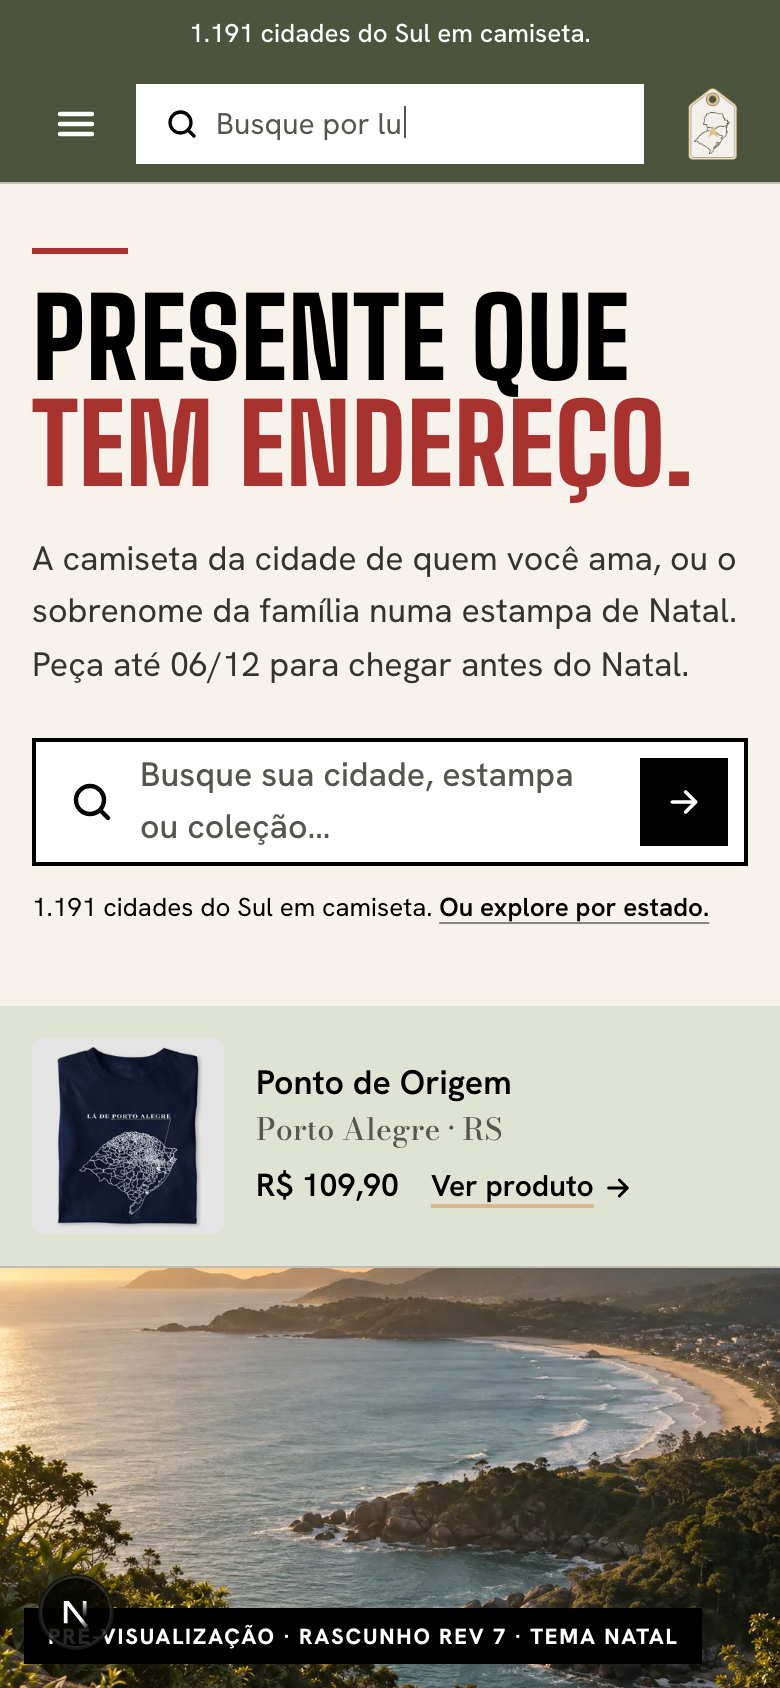
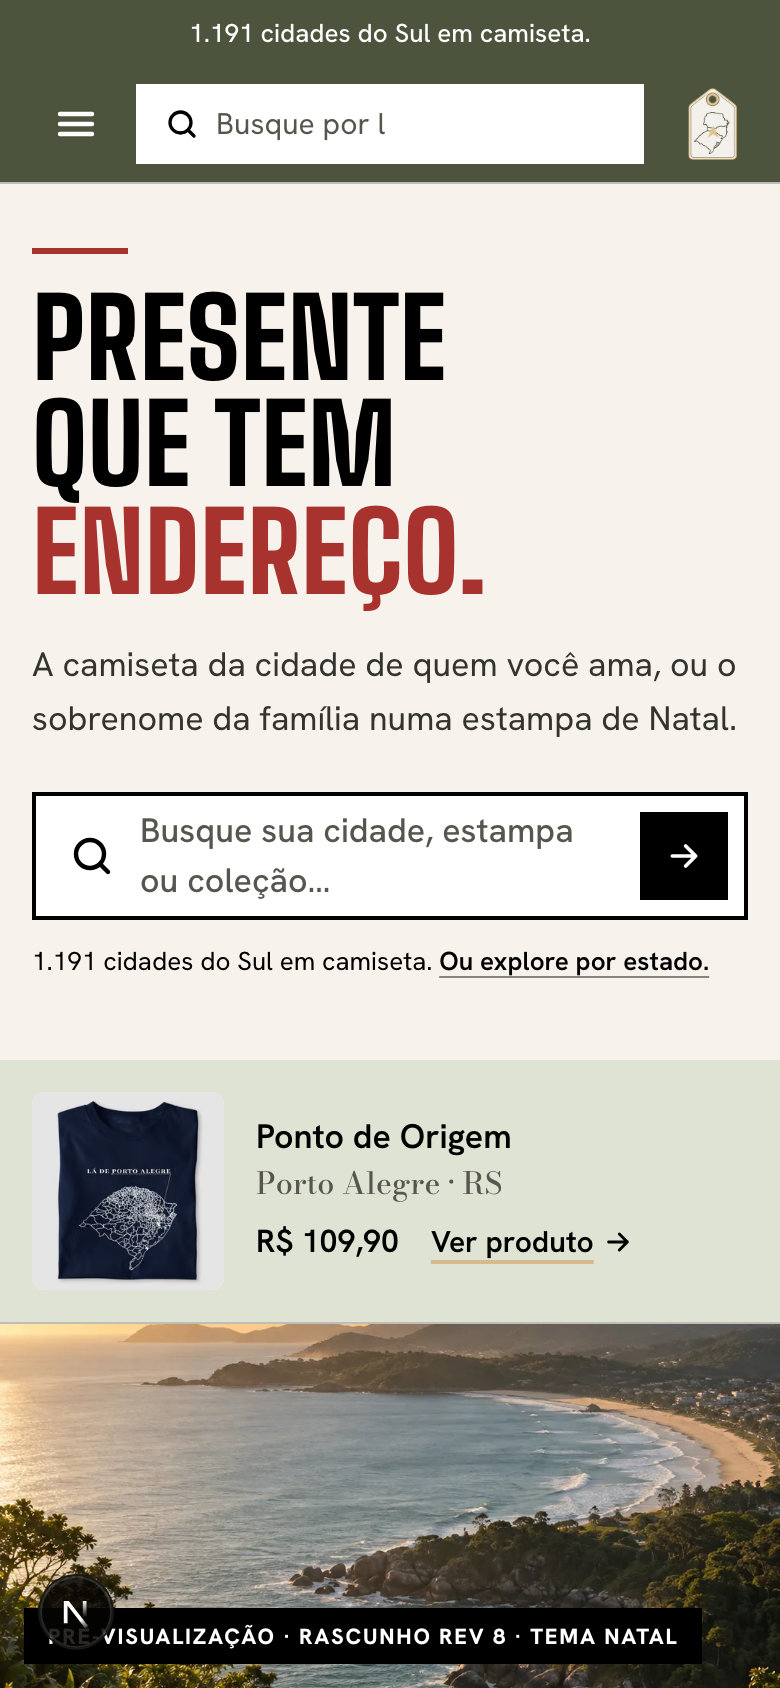
feat(home): título do Natal em três linhas curtas e subtítulo sem prazo

diff --git a/tests/unit/home-themes.test.ts b/tests/unit/home-themes.test.ts
@@ -199,7 +199,7 @@ describe("the seasonal themes (Black Friday and Natal)", () => {
     expect(doc.home!.sections).toEqual(before.home!.sections);
     const natal = doc.homeThemes!.natal!;
     const [hero, call, showcase, ...rest] = natal.sections;
-    expect(hero).toMatchObject({ id: before.home!.sections[0].id, variant: "feature", title: "Presente que\ntem endereço.", heroColors: { highlight: "#a8322d" } });
+    expect(hero).toMatchObject({ id: before.home!.sections[0].id, variant: "feature", title: "Presente\nque tem\nendereço.", heroColors: { highlight: "#a8322d" } });
     expect(call).toMatchObject({ template: "campaign", variant: "split", cta: { dest: { kind: "customizer", customizerId: "natal1" } } });
     expect(showcase).toMatchObject({ template: "product-carousel", source: { kind: "ink-category", collectionId: 154424 } });
     expect(rest).toEqual(before.home!.sections.slice(1));

diff --git a/src/lib/site-config/home-themes.ts b/src/lib/site-config/home-themes.ts
@@ -164,8 +164,8 @@ const SEASONAL_HERO: Record<SeasonalThemeName, { title: string; subtitle: string
     colors: { background: "#111111", title: "#ffffff", highlight: "#e2b64a", rule: "#e2b64a", text: "#e6e6e6", link: "#e2b64a", field: "#e2b64a" },
   },
   natal: {
-    title: "Presente que\ntem endereço.",
-    subtitle: "A camiseta da cidade de quem você ama, ou o sobrenome da família numa estampa de Natal. Peça até 06/12 para chegar antes do Natal.",
+    title: "Presente\nque tem\nendereço.",
+    subtitle: "A camiseta da cidade de quem você ama, ou o sobrenome da família numa estampa de Natal.",
     colors: { highlight: "#a8322d", rule: "#a8322d" },
   },
 };

diff --git a/docs/temas-sazonais.md b/docs/temas-sazonais.md
@@ -8,8 +8,8 @@ na loja não muda até você escolher outro e publicar.
 
 | | Black Friday | Natal |
 |---|---|---|
-| Título | A origem / entra na / **Black.** | Presente que / **tem endereço.** |
-| Texto | Camisetas de R$ 119,90 por R$ 99,90. Busque a sua cidade e garanta a sua: chega antes do Natal. | A camiseta da cidade de quem você ama, ou o sobrenome da família numa estampa de Natal. Peça até 06/12 para chegar antes do Natal. |
+| Título | A origem / entra na / **Black.** | Presente / que tem / **endereço.** |
+| Texto | Camisetas de R$ 119,90 por R$ 99,90. Busque a sua cidade e garanta a sua: chega antes do Natal. | A camiseta da cidade de quem você ama, ou o sobrenome da família numa estampa de Natal. |
 | Cores da abertura | metade do texto preta, título branco, destaque e traço amarelos (#e2b64a), busca com moldura amarela | destaque e traço em vermelho (#a8322d), o resto como no tema em uso |
 | Topo e menu do celular | pretos | como no tema em uso |
 | Seções novas | nenhuma | logo abaixo da abertura: a chamada "Natal em família, com o seu sobrenome." (botão para a personalização) e a vitrine "Para vestir na ceia." (coleção Natal) |
